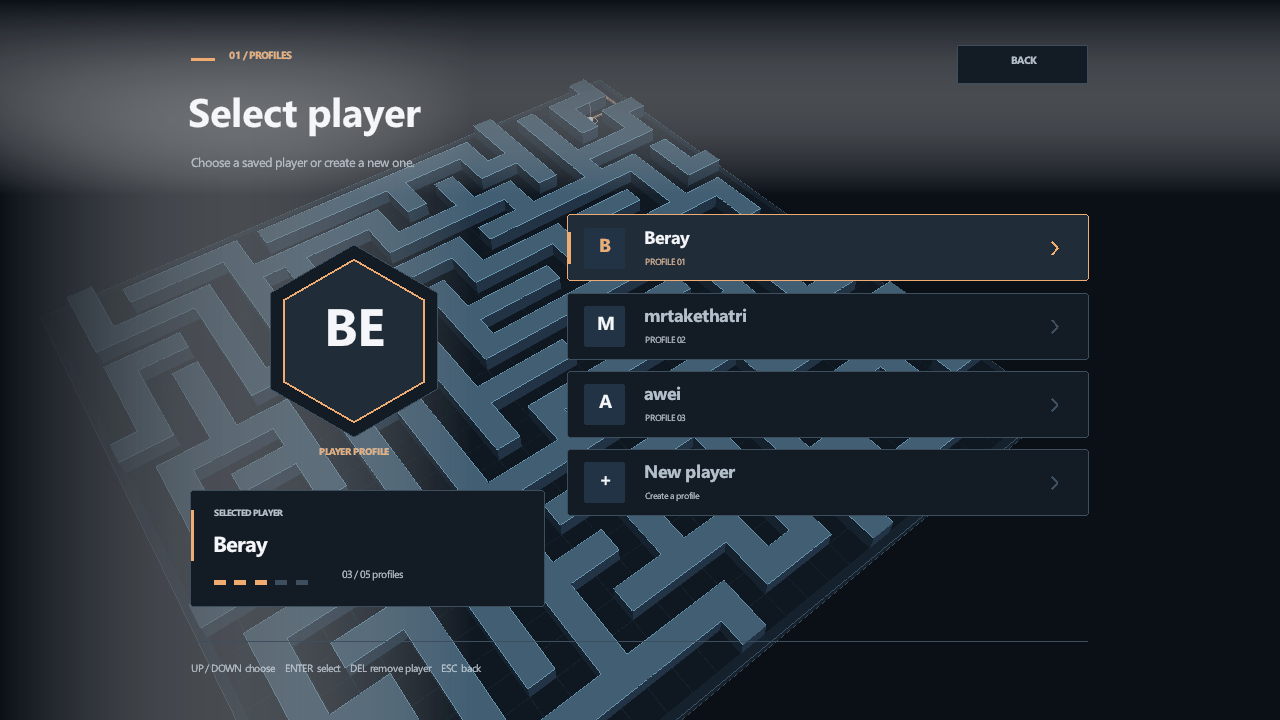
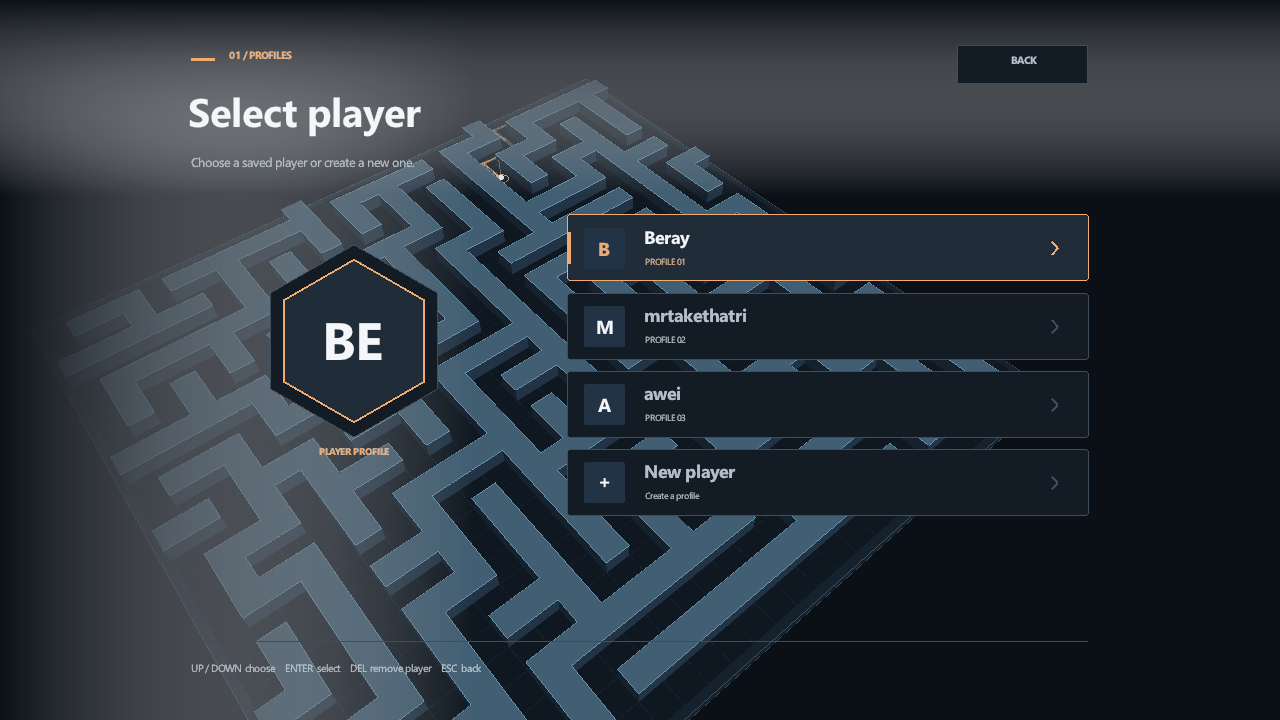
Center player initials and simplify profile selection

diff --git a/src/presentation/Ui.cpp b/src/presentation/Ui.cpp
@@ -3,6 +3,7 @@
 #include <algorithm>
 #include <cmath>
 #include <cstdlib>
+#include <limits>
 
 namespace {
 // System fonts are optional; the built-in font remains available on other platforms.
@@ -81,6 +82,46 @@ void MenuTypography::draw(const char* text, int x, int y, int size, Color color,
 void MenuTypography::centered(const char* text, int x, int y, int size, Color color, bool bold,
                               int width) const {
     drawText(text, x, y, size, color, bold, width, true);
+}
+
+// Use the ink bounds rather than the font's ascent/line box so short initials sit at true center.
+void MenuTypography::centeredIn(const char* value, Rectangle bounds, int size, Color color,
+                                bool bold) const {
+    if (!value || !*value || bounds.width <= 0 || bounds.height <= 0)
+        return;
+    const std::string label(value);
+    int pixels = std::max(10, (int)std::round(size * uiScale()));
+    Font font = fontFor(pixels, bold);
+    const float available = std::max(1.0f, bounds.width - uiSize(12));
+    float width = MeasureTextEx(font, label.c_str(), (float)pixels, 0).x;
+    while (width > available && pixels > 1) {
+        pixels = std::max(1, std::min(pixels - 1, (int)(pixels * available / width)));
+        font = fontFor(pixels, bold);
+        width = MeasureTextEx(font, label.c_str(), (float)pixels, 0).x;
+    }
+    const float ratio = (float)pixels / font.baseSize;
+    float left = std::numeric_limits<float>::max(), top = left;
+    float right = -left, bottom = right, advance = 0;
+    for (size_t index = 0; index < label.size();) {
+        int bytes = 0;
+        const int codepoint = GetCodepointNext(label.c_str() + index, &bytes);
+        const int glyph = GetGlyphIndex(font, codepoint);
+        const GlyphInfo info = font.glyphs[glyph];
+        const Rectangle rect = font.recs[glyph];
+        if (codepoint != ' ') {
+            left = std::min(left, advance + info.offsetX * ratio);
+            top = std::min(top, info.offsetY * ratio);
+            right = std::max(right, advance + (info.offsetX + rect.width) * ratio);
+            bottom = std::max(bottom, (info.offsetY + rect.height) * ratio);
+        }
+        advance += (info.advanceX ? info.advanceX : rect.width + info.offsetX) * ratio;
+        index += std::max(1, bytes);
+    }
+    if (right < left)
+        return;
+    const Vector2 position = {std::round(bounds.x + bounds.width / 2 - (left + right) / 2),
+                              std::round(bounds.y + bounds.height / 2 - (top + bottom) / 2)};
+    DrawTextEx(font, label.c_str(), position, (float)pixels, 0, color);
 }
 
 // Choose the uniform scale that fits the 1000-by-700 reference layout inside the current window.

diff --git a/src/presentation/PlayerSelect.cpp b/src/presentation/PlayerSelect.cpp
@@ -110,18 +110,11 @@ void PlayerSelect::draw() const {
     DrawPolyLinesEx(portrait, 6, 94 * uiScale(), 30, std::max(1.0f, uiScale()), Border);
     DrawPoly(portrait, 6, 80 * uiScale(), 30, Selected);
     DrawPolyLinesEx(portrait, 6, 80 * uiScale(), 30, std::max(1.5f, 2 * uiScale()), Accent);
-    type.centered(mark.c_str(), 222, 282, 68, Paper, true, 128);
+    type.centeredIn(mark.c_str(),
+                    {portrait.x - 80 * uiScale(), portrait.y - 80 * uiScale(), 160 * uiScale(),
+                     160 * uiScale()},
+                    68, Paper);
     type.centered(existing ? "PLAYER PROFILE" : "CREATE PROFILE", 222, 433, 13, Accent, true);
-
-    drawMenuPanel(uiRect(64, 478, 344, 112));
-    DrawRectangle(uiX(64), uiY(496), std::max(2, uiSize(3)), uiSize(50), Accent);
-    type.draw(existing ? "SELECTED PLAYER" : "NEW PLAYER", 86, 493, 12, Muted, true);
-    type.draw(name.c_str(), 85, 515, 28, Paper, true, 298);
-    for (int slot = 0; slot < MAX_PLAYERS; ++slot)
-        DrawRectangle(uiX(86 + slot * 20), uiY(564), uiSize(12), uiSize(5),
-                      slot < players.count() ? Accent : Border);
-    type.draw(TextFormat("%02d / %02d profiles", players.count(), MAX_PLAYERS), 211, 552, 14, Muted,
-              false, 173);
 
     for (int index = 0; index < optionCount(); ++index) {
         const bool saved = index < players.count();
@@ -135,7 +128,7 @@ void PlayerSelect::draw() const {
             DrawRectangle(uiX(430), uiY(y + 16), std::max(2, uiSize(3)), uiSize(32), Accent);
         DrawRectangleRounded(uiRect(446, y + 12, 40, 40), 0.12f, 6, MazeSide);
         const std::string letter = saved ? initials(players.name(index)).substr(0, 1) : "+";
-        type.centered(letter.c_str(), 466, y + 16, 24, active ? Accent : Paper, true);
+        type.centeredIn(letter.c_str(), uiRect(446, y + 12, 40, 40), 24, active ? Accent : Paper);
         type.draw(saved ? players.name(index).c_str() : "New player", 504, y + 9, 23,
                   active ? Paper : Muted, true, 334);
         type.draw(saved ? TextFormat("PROFILE %02d", index + 1) : "Create a profile", 505, y + 39,

diff --git a/src/presentation/Ui.h b/src/presentation/Ui.h
@@ -48,6 +48,9 @@ public:
               bool bold = false, int width = 0) const;
     void centered(const char* text, int centerX, int y, int size, Color color = MenuTheme::Paper,
                   bool bold = false, int width = 0) const;
+    // Center visible glyphs horizontally and vertically inside a badge or keycap.
+    void centeredIn(const char* text, Rectangle bounds, int size, Color color = MenuTheme::Paper,
+                    bool bold = true) const;
 
 private:
     struct Face {
